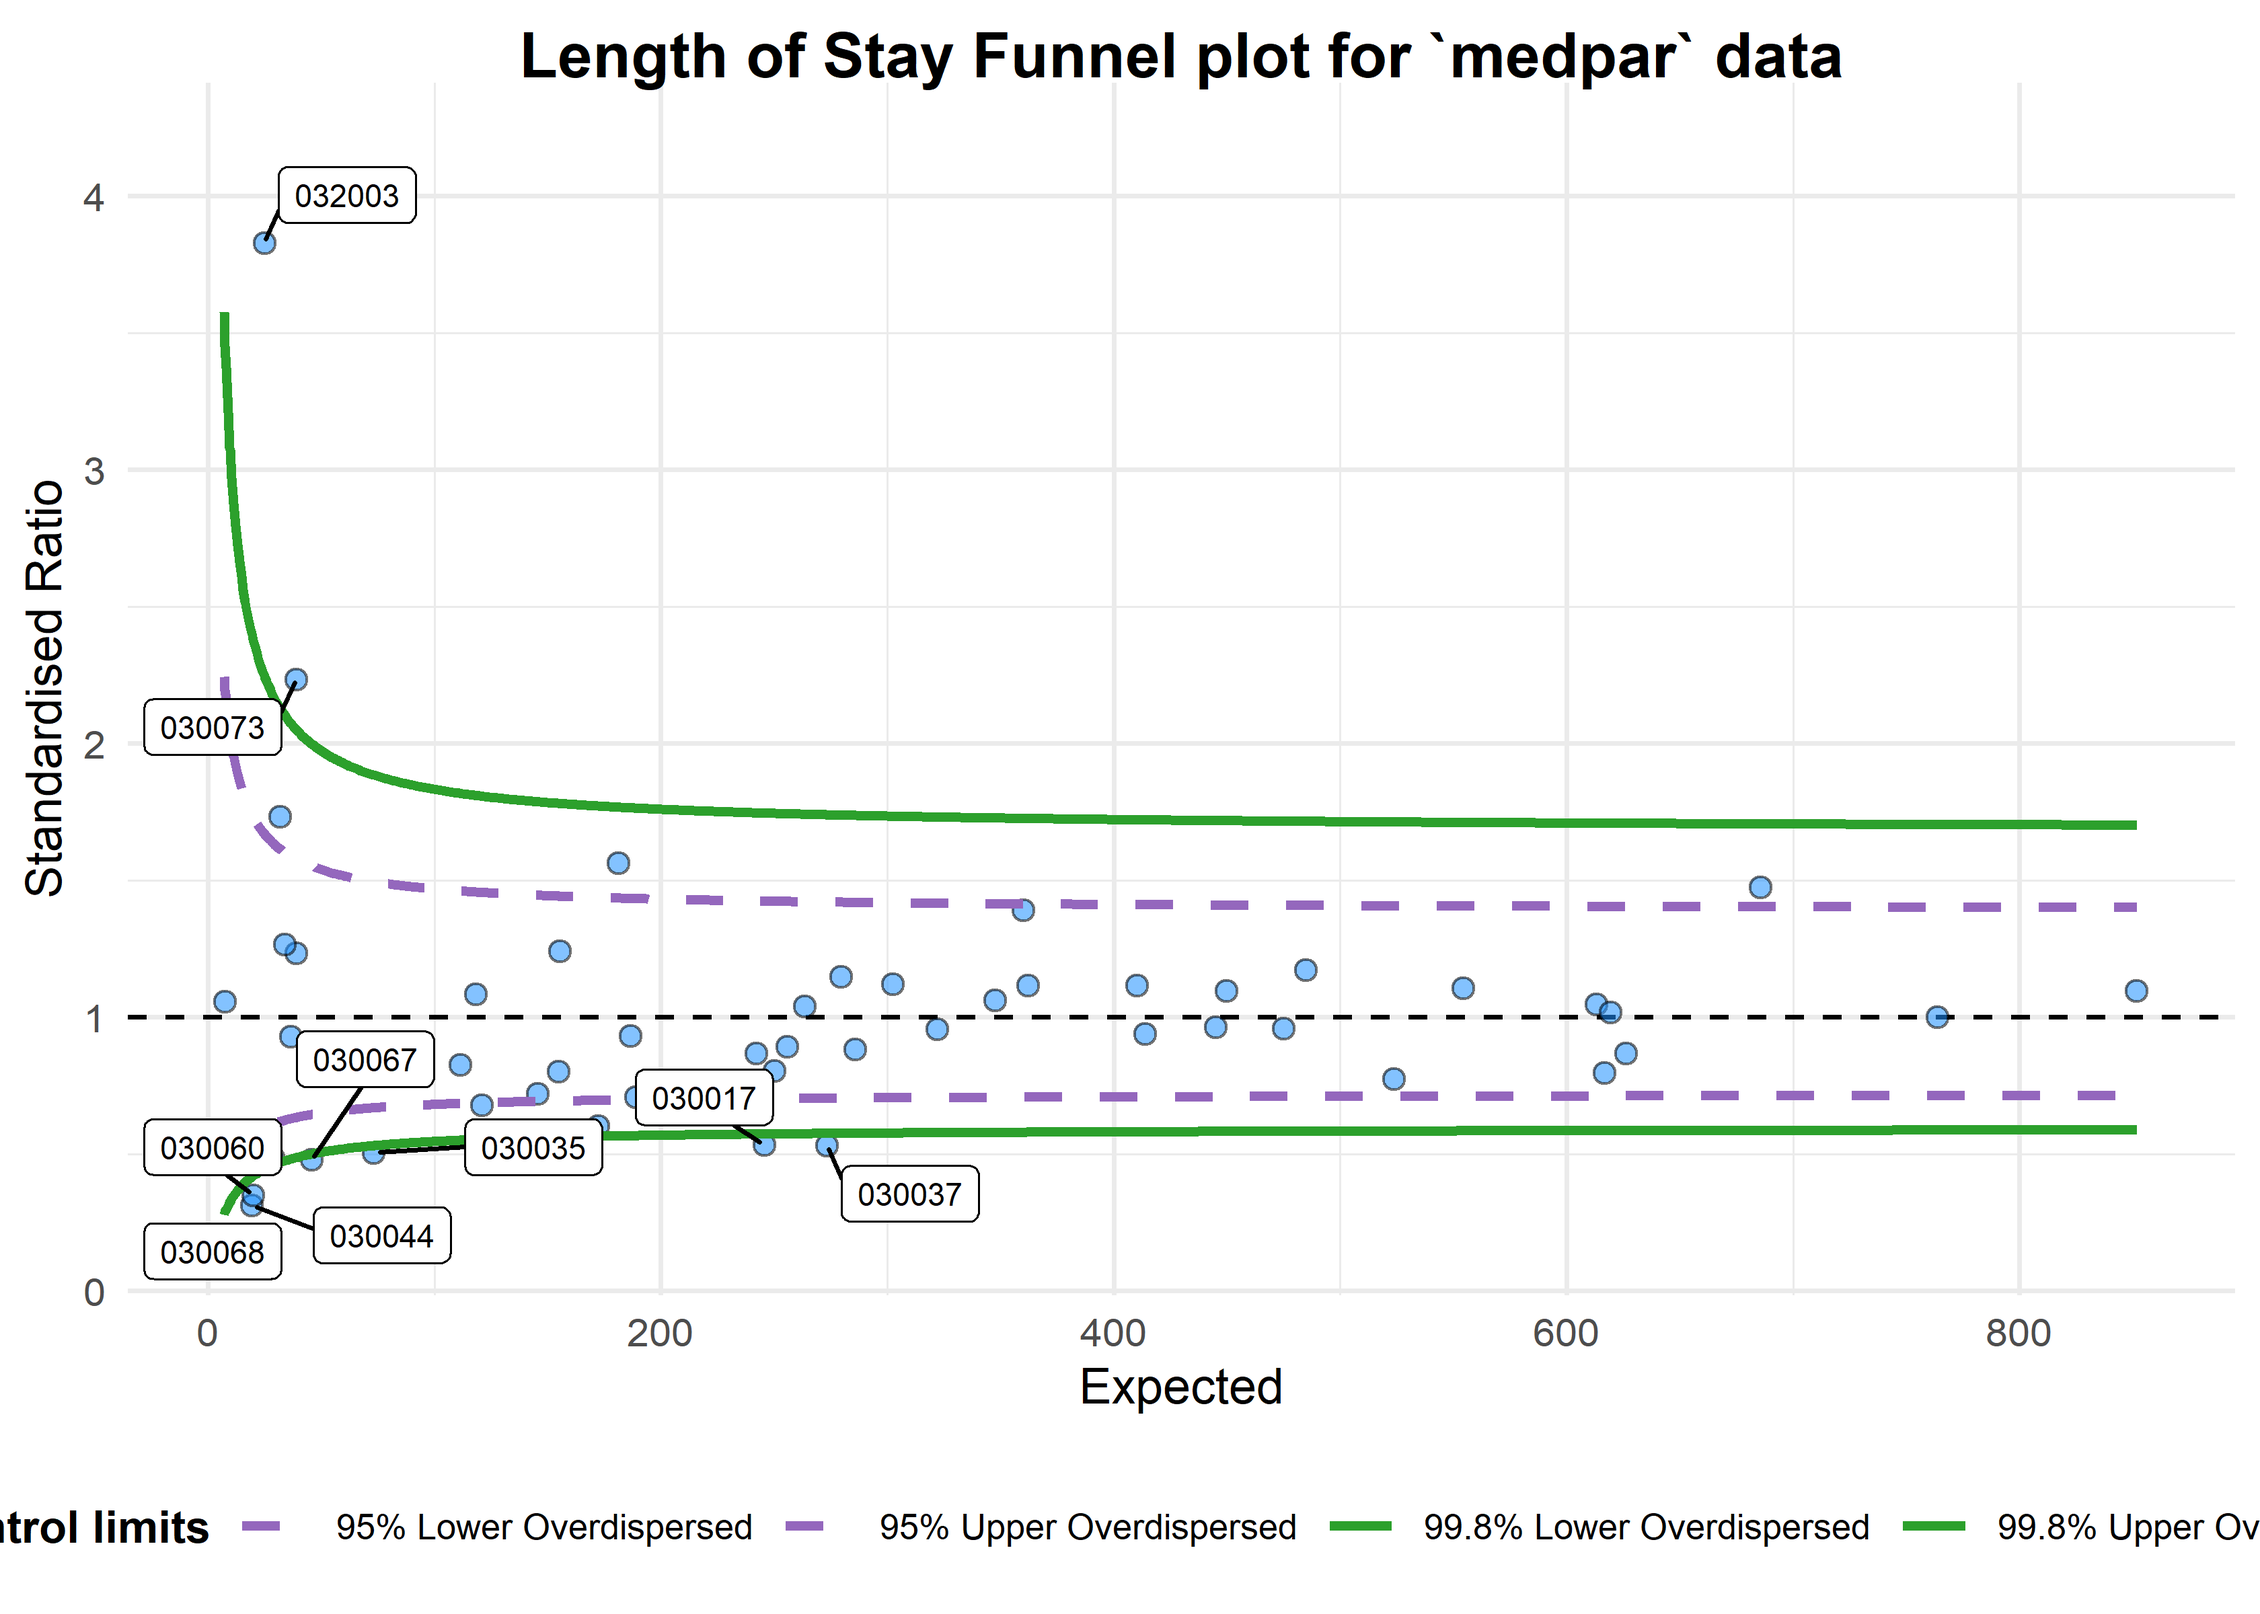
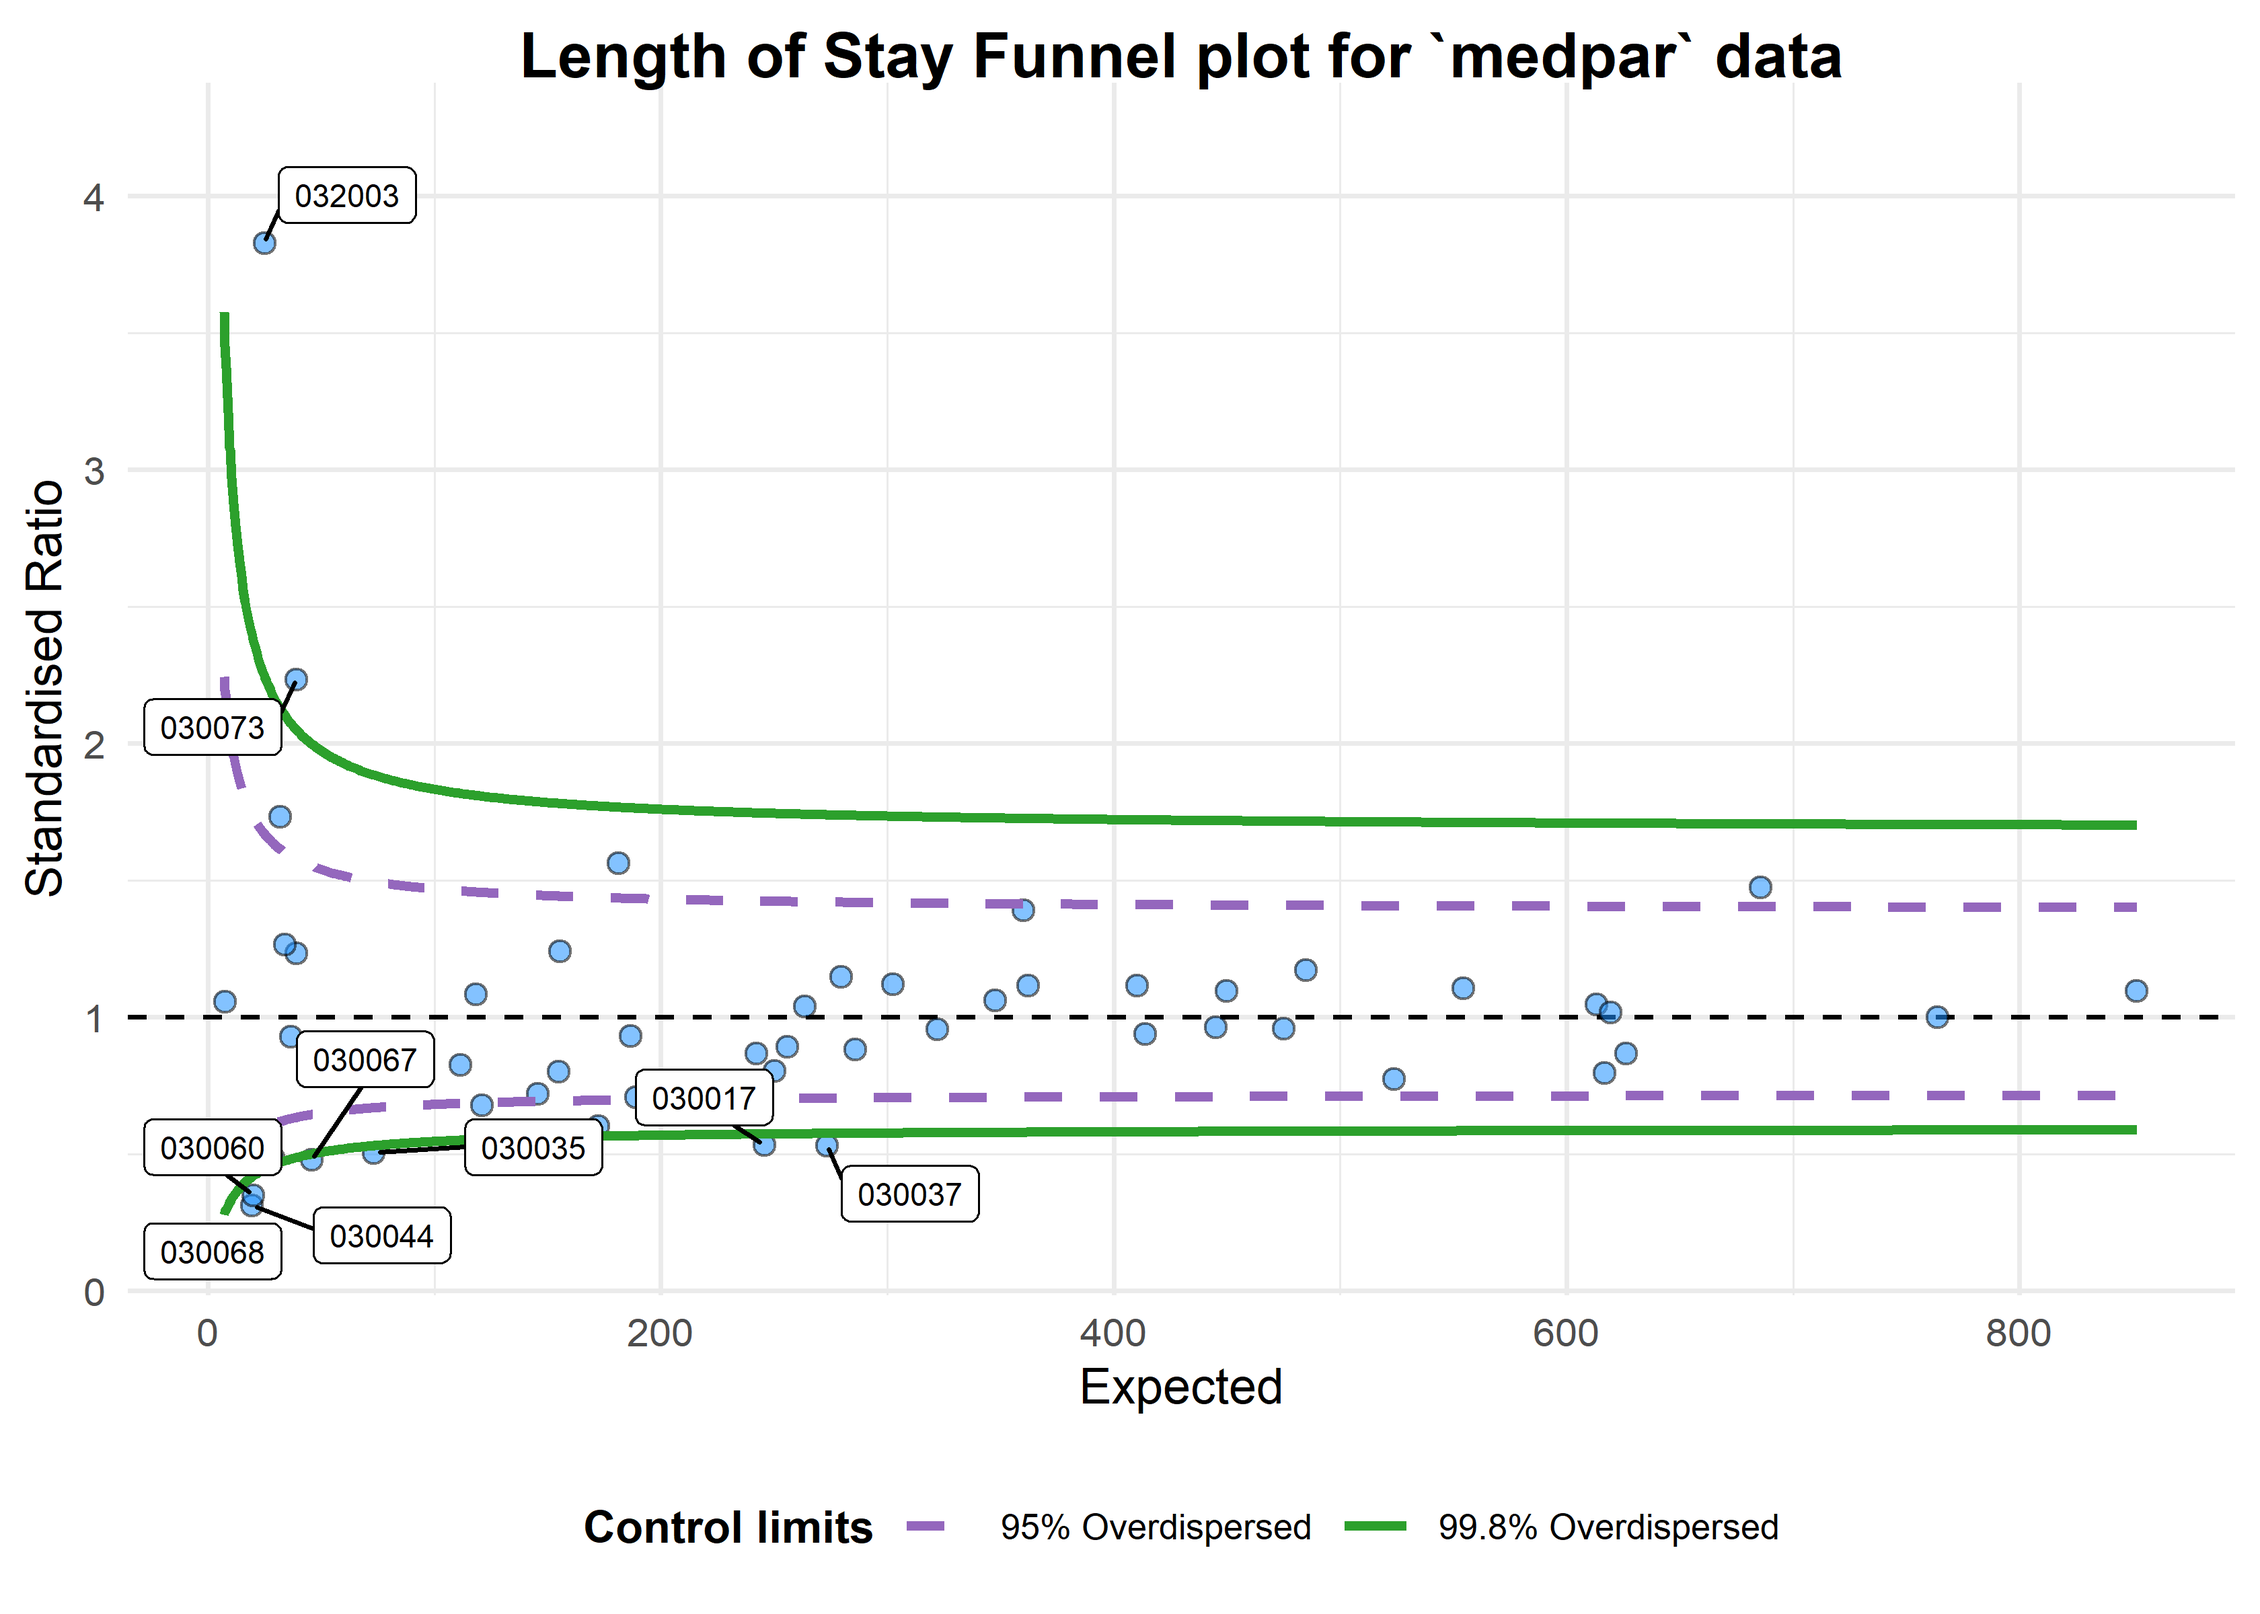
Tweaks for 0.5.1 release

Changed region(s): [[0.1562, 0.9375, 0.5938, 0.9688], [0.625, 0.9375, 1.0, 0.9688], [0.0, 0.9375, 0.0938, 0.9688]]

diff --git a/cran-comments.md b/cran-comments.md
@@ -1,35 +1,33 @@
 ## Release summary
 
-This is a main release with a change to the UI and some of the logic of the main plotting function:
-* Implements tidyeval style interface to allow users to 'pipe' into it from dplyr
-* Adjusted support material to reflect that.
-* Updated control limit logical to allow turning in all limits.
-
-Resolved 2 CRAN checks NOTES: lost braces in a file due to line breaks, and renamed arguments were missed in one function leading to 'documented arguments not in \usage'.  Apologies for the delay, the CRAN emails were filter to my junk folder and hadn't spotted them until this week.
+This is a main release with a change to composition of the plots and changes for compatibility with ggplot 4.0
 
 
 ## Test environments
-* local windows 10, R 4.3.2
+* local windows 10 22H2, R 4.5.1
 
 * R-devel and release, on Win-builder
 
-* GitHub actions:
+* GitHub CIs actions:
   * Mac OS x 12.7.4 21H123, R 4.3.3
   * Windows Server x64 2022, 10.0.20348, R 4.3.3
   * Ubuntu 20.04.6 LTS, R-devel 2024-04-12
   * Ubuntu 20.04.6 LTS, R 4.3.3
 
 * r-hub v2 via GitHub actions:
-  * Ubuntu Linux 22.04.4 LTS, R-release, GCC
-  * Ubuntu Linux 22.04.4 LTS, R-devel 2024-04-12 - failed due to missing pandoc-citproc in GH actions
-  * Ubuntu-clang Linux 20.04.4 LTS, R-devel 2024-04-12 - failed due to missing pandoc-citproc in GH actions
-  * Mac OS-arm x 14.4.1 23E224, R 4.3.3
-  * Mac OS-arm x 14.4.1 23E224, R-devel 2024-04-12
-  * Fedora Linux, R-devel 2024-04-12, clang, gfortran
+  * Ubuntu Linux 22.04.5 LTS, R-release, GCC
+  * Ubuntu Linux 22.04.5 LTS, R-devel 2025-07-06 r88390
+  * Ubuntu-clang Linux 20.04.5 LTS, R-devel 2025-07-06 r88390 
+  * Mac OS x 14.4.1 23E224, R 4.3.3
+  * Mac OS-arm64 x 14.4.1 23E224, R-devel 2024-04-12
+  * Fedora Linux, R-devel 2025-07-06 r88390, intel3
   * Windows Server 2022, R-devel 2024-04-12, 64 bit
 
 ## R CMD check results
-There were no ERRORs, WARNINGs or NOTES.
+There were no ERRORs, WARNINGs.  2 NOTES on winbuilder:
+* "possibly invlaid URL"" (URL is correct and still valid)
+* "Problems with news in 'NEWS.md':  Cannot extract version info from the following section titles:
+    Changes" - not seen on all other versions, but NEWS formatting checked and verified.
 
 ## Downstream dependencies
 There are currently no downstream dependencies for this package to my knowledge.

diff --git a/NEWS.md b/NEWS.md
@@ -1,9 +1,20 @@
+# FunnelPlotR 0.6.0
+
+## Breaking changes
+* Altered control limits to function in pairs only
+* Paired limits allow tidier legend
+* Colour scheme reduced accordingly to 4 colours for pairs of limits, rather than 8.
+
+## Changes
+* Updated compatibility for ggplot 4.0 - thanks @teunbrand
+* Updated actions workflows to new standards
+
 # FunnelPlotR 0.5.0
 
-- Breaking change
+## Breaking change
 * Tidyeval approach added, with function now taking the data argument first, allowing piping, and allows unquoted column names to fit with tidyverse / dplyr style approach.
 
-- Changes
+## Changes
 * Added a `max.overlaps` argument to allow the user to vary this in cases where labels overlap is unhelpful.
 * Changed control limit options to allow both adjusted and unadjusted to be turned off, without turning the other on.
 * Updated README, help files and vignette to use tidyeval approach.
@@ -11,12 +22,13 @@
 
 
 # FunnelPlotR 0.4.2
-- Changes:
+
+## Changes:
 * Handling of expected values in SHMI calculation was adjusted to allow rounding to two decimal places to match NHSD publication, and as requested by HED Team.  Now controlled with additional argument: `SHMI_rounding` = TRUE/FALSE
 * A change to the OD logic when OD adjustment is selected, but no OD detected.  Changed to focus on phi (dispersion ratio) instead of tau (variance component).
 
 
-- Bug-fix: 
+## Bug-fix: 
 * an error handling function was not performing correctly and preventing multiple selections.
 * Updated plotting as ggplot arguments were deprecated and giving warning notices.
 * Updated package author's email address, as I lost access to the old one.
@@ -25,7 +37,8 @@
 
 # FunnelPlotR 0.4.1
 
-- Bug-fix release: the outlier function was not passing the 'multiplier' argument and was wrong with anything except the default values.  This has been corrected to pass the multiplier properly.
+## Bug-fix release: 
+The outlier function was not passing the 'multiplier' argument and was wrong with anything except the default values.  This has been corrected to pass the multiplier properly.
 
 # FunnelPlotR 0.4.0
 

diff --git a/README.md b/README.md
@@ -124,16 +124,16 @@ Now we have a regression that we can use to get a predicted `los` that
 we will compare to observed `los`:
 
 ``` r
-medpar$prds<- predict(mod, type="response")
+medpar$prds <- predict(mod, type="response")
 ```
 
 <br><br> We can build a funnel plot object with standard Poisson limits,
 and outliers labelled.
 
 ``` r
-a<-funnel_plot(medpar, numerator=los, denominator=prds, group = provnum, 
-            title = 'Length of Stay Funnel plot for `medpar` data', data_type="SR", limit=99,
-            draw_unadjusted = TRUE, draw_adjusted = FALSE, label="outlier")
+a <- funnel_plot(medpar, numerator = los, denominator = prds, group = provnum, 
+            title = 'Length of Stay Funnel plot for `medpar` data', data_type = "SR", limit=  99,
+            draw_unadjusted = TRUE, draw_adjusted = FALSE, label = "outlier")
 print(a)
 ```
 
@@ -162,9 +162,9 @@ overdispersed limits using either SHMI or Spiegelhalter methods adjust
 for this by inflating the limits:
 
 ``` r
-b<-funnel_plot(medpar, numerator=los, denominator=prds, group = provnum, data_type = "SR",
+b <- funnel_plot(medpar, numerator = los, denominator = prds, group = provnum, data_type = "SR",
             title = 'Length of Stay Funnel plot for `medpar` data', draw_unadjusted = FALSE,
-            draw_adjusted = TRUE, sr_method = "SHMI", label="outlier", limit=99)
+            draw_adjusted = TRUE, sr_method = "SHMI", label = "outlier", limit = 99)
 
 print(b)
 ```
